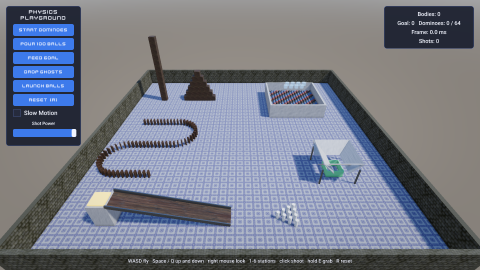
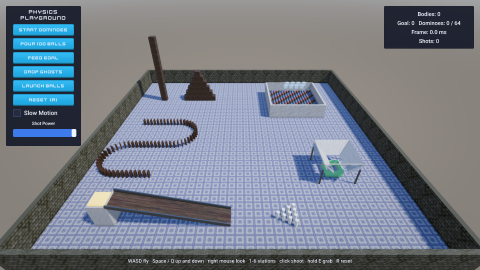
Draw the samples' buttons and panels with sliced UI Pack images
The plan's Game UI row promised sliced images (the Playground's tool
panel, the Third-Person's menus), but every UIImage of the samples was
a flat color. Two Kenney UI Pack 2.0 PNGs (CC0), imported through the
editor, now draw the Playground's tool panel, HUD and buttons and the
Third-Person's menu, settings, credits, pause, HUD and completion
panels and their buttons as nine-slice images (corners kept, edges and
middle stretched). Credits, notices, READMEs and both launcher pictures
follow; the regressions and windowed image checks pass unchanged.

Claude-Session: https://claude.ai/code/session_011Fkij8BXid9xqtVd6DHtXH

diff --git a/Samples/ThirdPerson/README.md b/Samples/ThirdPerson/README.md
@@ -18,7 +18,7 @@ itself when nobody touches the menu. An AI agent made it through the editor alon
 | Triggers: spinning coins (sphere triggers), jump pads and the goal (box triggers), each a prefab ([Prefabs](https://github.com/2042Third/GameEngine/blob/main/Docs/Manual/Prefabs.md)) | `Prefabs/Coin.stprefab`, `Prefabs/JumpPad.stprefab`, `Scripts/Coin.cpp`, `Scripts/JumpPad.cpp`, `Scripts/Goal.cpp` |
 | Static mesh colliders: the course is 35 Platformer Kit blocks with non-convex mesh colliders | `Prefabs/Course/` |
 | Several scenes: a main menu, the course and the export's loading scene, switched with `Game::LoadScene` and `Game::ReloadScene`; state the script module keeps across scene loads (the attract mode) ([Scripting](https://github.com/2042Third/GameEngine/blob/main/Docs/Manual/Scripting.md)) | `Scripts/MainMenu.cpp`, `Scripts/ThirdPerson.cpp`, `Scenes/` |
-| Game UI: buttons, sliders and toggles, a credits text scrolling inside a `UIMask`, a HUD, keyboard and gamepad navigation, a pause menu at time scale 0 ([Game UI](https://github.com/2042Third/GameEngine/blob/main/Docs/Manual/GameUI.md)) | `Scripts/MainMenu.cpp`, `Scripts/PauseMenu.cpp`, `Scripts/SettingsMenu.cpp`, `Scripts/CourseState.cpp` |
+| Game UI: buttons and panels drawn with sliced images (Kenney UI Pack), sliders and toggles, a credits text scrolling inside a `UIMask`, a HUD, keyboard and gamepad navigation, a pause menu at time scale 0 ([Game UI](https://github.com/2042Third/GameEngine/blob/main/Docs/Manual/GameUI.md)) | `Scripts/MainMenu.cpp`, `Scripts/PauseMenu.cpp`, `Scripts/SettingsMenu.cpp`, `Scripts/CourseState.cpp`, `Assets/UI/` |
 | Save files: the settings (`settings.json`) and the best time, read when the game starts | `Scripts/ThirdPerson.cpp`, `Scripts/CourseState.cpp` |
 | Display options: fullscreen and vsync from the settings (`Game::SetWindowMode`, `Game::SetVSync`) and the master volume (`Audio::SetMasterVolume`) | `Scripts/ThirdPerson.cpp` |
 | An object in a hand: the menu robot holds a flag through an `AttachToJoint` component | `Scenes/MainMenu.stscene` |

diff --git a/ThirdPartyNotices.md b/ThirdPartyNotices.md
@@ -50,7 +50,7 @@ are in the public domain; CC-BY packs ask for the attribution given here, which 
 | Sample | Pack | Source | Author | License | Attribution |
 | --- | --- | --- | --- | --- | --- |
 | Physics Playground | ambientCG Tiles101, Bricks076C, Planks037B, Concrete034, Plastic010, Metal032 | https://ambientcg.com/view?id=Tiles101, https://ambientcg.com/view?id=Bricks076C, https://ambientcg.com/view?id=Planks037B, https://ambientcg.com/view?id=Concrete034, https://ambientcg.com/view?id=Plastic010, https://ambientcg.com/view?id=Metal032 | ambientCG | CC0 1.0 | |
-| Physics Playground | Kenney Impact Sounds, Interface Sounds, Kenney Fonts | https://kenney.nl/assets/impact-sounds, https://kenney.nl/assets/interface-sounds, https://kenney.nl/assets/kenney-fonts | Kenney | CC0 1.0 | |
+| Physics Playground | Kenney Impact Sounds, Interface Sounds, UI Pack, Kenney Fonts | https://kenney.nl/assets/impact-sounds, https://kenney.nl/assets/interface-sounds, https://kenney.nl/assets/ui-pack, https://kenney.nl/assets/kenney-fonts | Kenney | CC0 1.0 | |
 | Open World | Kenney Nature Kit, Kenney Fonts | https://kenney.nl/assets/nature-kit, https://kenney.nl/assets/kenney-fonts | Kenney | CC0 1.0 | |
 | Open World | Khronos glTF Sample Assets: Fox | https://github.com/KhronosGroup/glTF-Sample-Assets/tree/edc7c9e67c639d230715049ee31f9a96a6babbbe/Models/Fox | PixelMannen; tomkranis; @AsoboStudio and @scurest | CC0 1.0 (model); CC BY 4.0 (rigging, animation, glTF conversion) | Fox: model by PixelMannen (CC0 1.0); rigging and animation by tomkranis (CC BY 4.0); glTF conversion by @AsoboStudio and @scurest (CC BY 4.0) |
 | Third-Person Adventure | three.js example models: RobotExpressive | https://github.com/mrdoob/three.js/blob/f67dcda032208b367f5965bbd835c16f839909c8/examples/models/gltf/RobotExpressive/RobotExpressive.glb | Tomás Laulhé (Quaternius); modifications by Don McCurdy | CC0 1.0 | |

diff --git a/Samples/PhysicsPlayground/README.md b/Samples/PhysicsPlayground/README.md
@@ -17,7 +17,7 @@ through the balls, and a ramp that sends balls into ten pins. An AI agent made i
 | Raycasts and impulses: shoot a ball through the cursor, grab a body and pull it | `Scripts/Playground.cpp` (`Shoot`, `UpdateGrab`) |
 | Spawning many at once: a pour of 100 balls in one `Scene::InstantiateMany` call | `Playground::SpawnBalls` |
 | GPU-driven rendering: hundreds of instanced bodies with shadows; PBR materials from ambientCG | `Materials/`, `Textures/` |
-| Game UI: a tool panel of buttons, a slow-motion toggle (`Time::SetTimeScale`), a shot-power slider and a HUD ([Game UI](https://github.com/2042Third/GameEngine/blob/main/Docs/Manual/GameUI.md)) | `UI` in the scene |
+| Game UI: a tool panel of buttons drawn with sliced images (Kenney UI Pack: corners kept, edges and middle stretched), a slow-motion toggle (`Time::SetTimeScale`), a shot-power slider and a HUD ([Game UI](https://github.com/2042Third/GameEngine/blob/main/Docs/Manual/GameUI.md)) | `UI` in the scene, `Assets/UI/` |
 | Audio: one-shots heard where bodies meet, louder the harder they hit, within a budget of voices | `Scripts/Impact.cpp` |
 | Hot reload: the fields keep their values when the scripts are rebuilt while playing | `Playground::OnReload` |
 | Export: the game runs a demo of its stations by itself (`AutoDemo`) | `project.export` |
@@ -56,5 +56,5 @@ exact fixed steps, shoots, hot reloads, resets and exports, and the exported gam
 
 ## Credits
 
-Textures from [ambientCG](https://ambientcg.com) and sounds and a font from [Kenney](https://kenney.nl), all CC0: see
+Textures from [ambientCG](https://ambientcg.com) and sounds, UI images and a font from [Kenney](https://kenney.nl), all CC0: see
 [CREDITS.md](CREDITS.md).

diff --git a/Samples/ThirdPerson/CREDITS.md b/Samples/ThirdPerson/CREDITS.md
@@ -15,4 +15,5 @@ domain; the authors are named as thanks, and the game's credits (Main Menu > Cre
 | `Assets/Sounds/Complete.ogg` | https://kenney.nl/assets/interface-sounds (version 1.0) | Kenney | CC0-1.0 | | `confirmation_004.ogg`, renamed |
 | `Assets/Sounds/Bounce.ogg` | https://kenney.nl/assets/interface-sounds (version 1.0) | Kenney | CC0-1.0 | | `pluck_002.ogg`, renamed |
 | `Assets/Sounds/UI/` | https://kenney.nl/assets/ui-pack (version 2.0) | Kenney | CC0-1.0 | | `click-a.ogg`, `tap-a.ogg` and `switch-a.ogg`, renamed `Click.ogg`, `Hover.ogg` and `Toggle.ogg` |
+| `Assets/UI/` | https://kenney.nl/assets/ui-pack (version 2.0) | Kenney | CC0-1.0 | | 2 of 870 PNGs: `Blue/Default/button_rectangle_depth_gradient.png` and `Grey/Default/button_square_flat.png` (the buttons' and panels' sliced images) |
 | `Assets/Fonts/KenneyFuture.ttf` | https://kenney.nl/assets/kenney-fonts | Kenney | CC0-1.0 | | `Kenney Future.ttf`, renamed |

diff --git a/Samples/PhysicsPlayground/CREDITS.md b/Samples/PhysicsPlayground/CREDITS.md
@@ -15,3 +15,4 @@ domain; the authors are named as thanks.
 | `Assets/Sounds/UI/Shot.ogg` | https://kenney.nl/assets/impact-sounds | Kenney | CC0-1.0 | | `impactPunch_medium_000.ogg`, renamed |
 | `Assets/Sounds/UI/Goal.ogg` | https://kenney.nl/assets/interface-sounds | Kenney | CC0-1.0 | | `confirmation_002.ogg`, renamed |
 | `Assets/Fonts/KenneyFuture.ttf` | https://kenney.nl/assets/kenney-fonts | Kenney | CC0-1.0 | | `Kenney Future.ttf`, renamed |
+| `Assets/UI/` | https://kenney.nl/assets/ui-pack (version 2.0) | Kenney | CC0-1.0 | | 2 of 870 PNGs: `Blue/Default/button_rectangle_depth_gradient.png` and `Grey/Default/button_square_flat.png` (the buttons' and panels' sliced images) |
